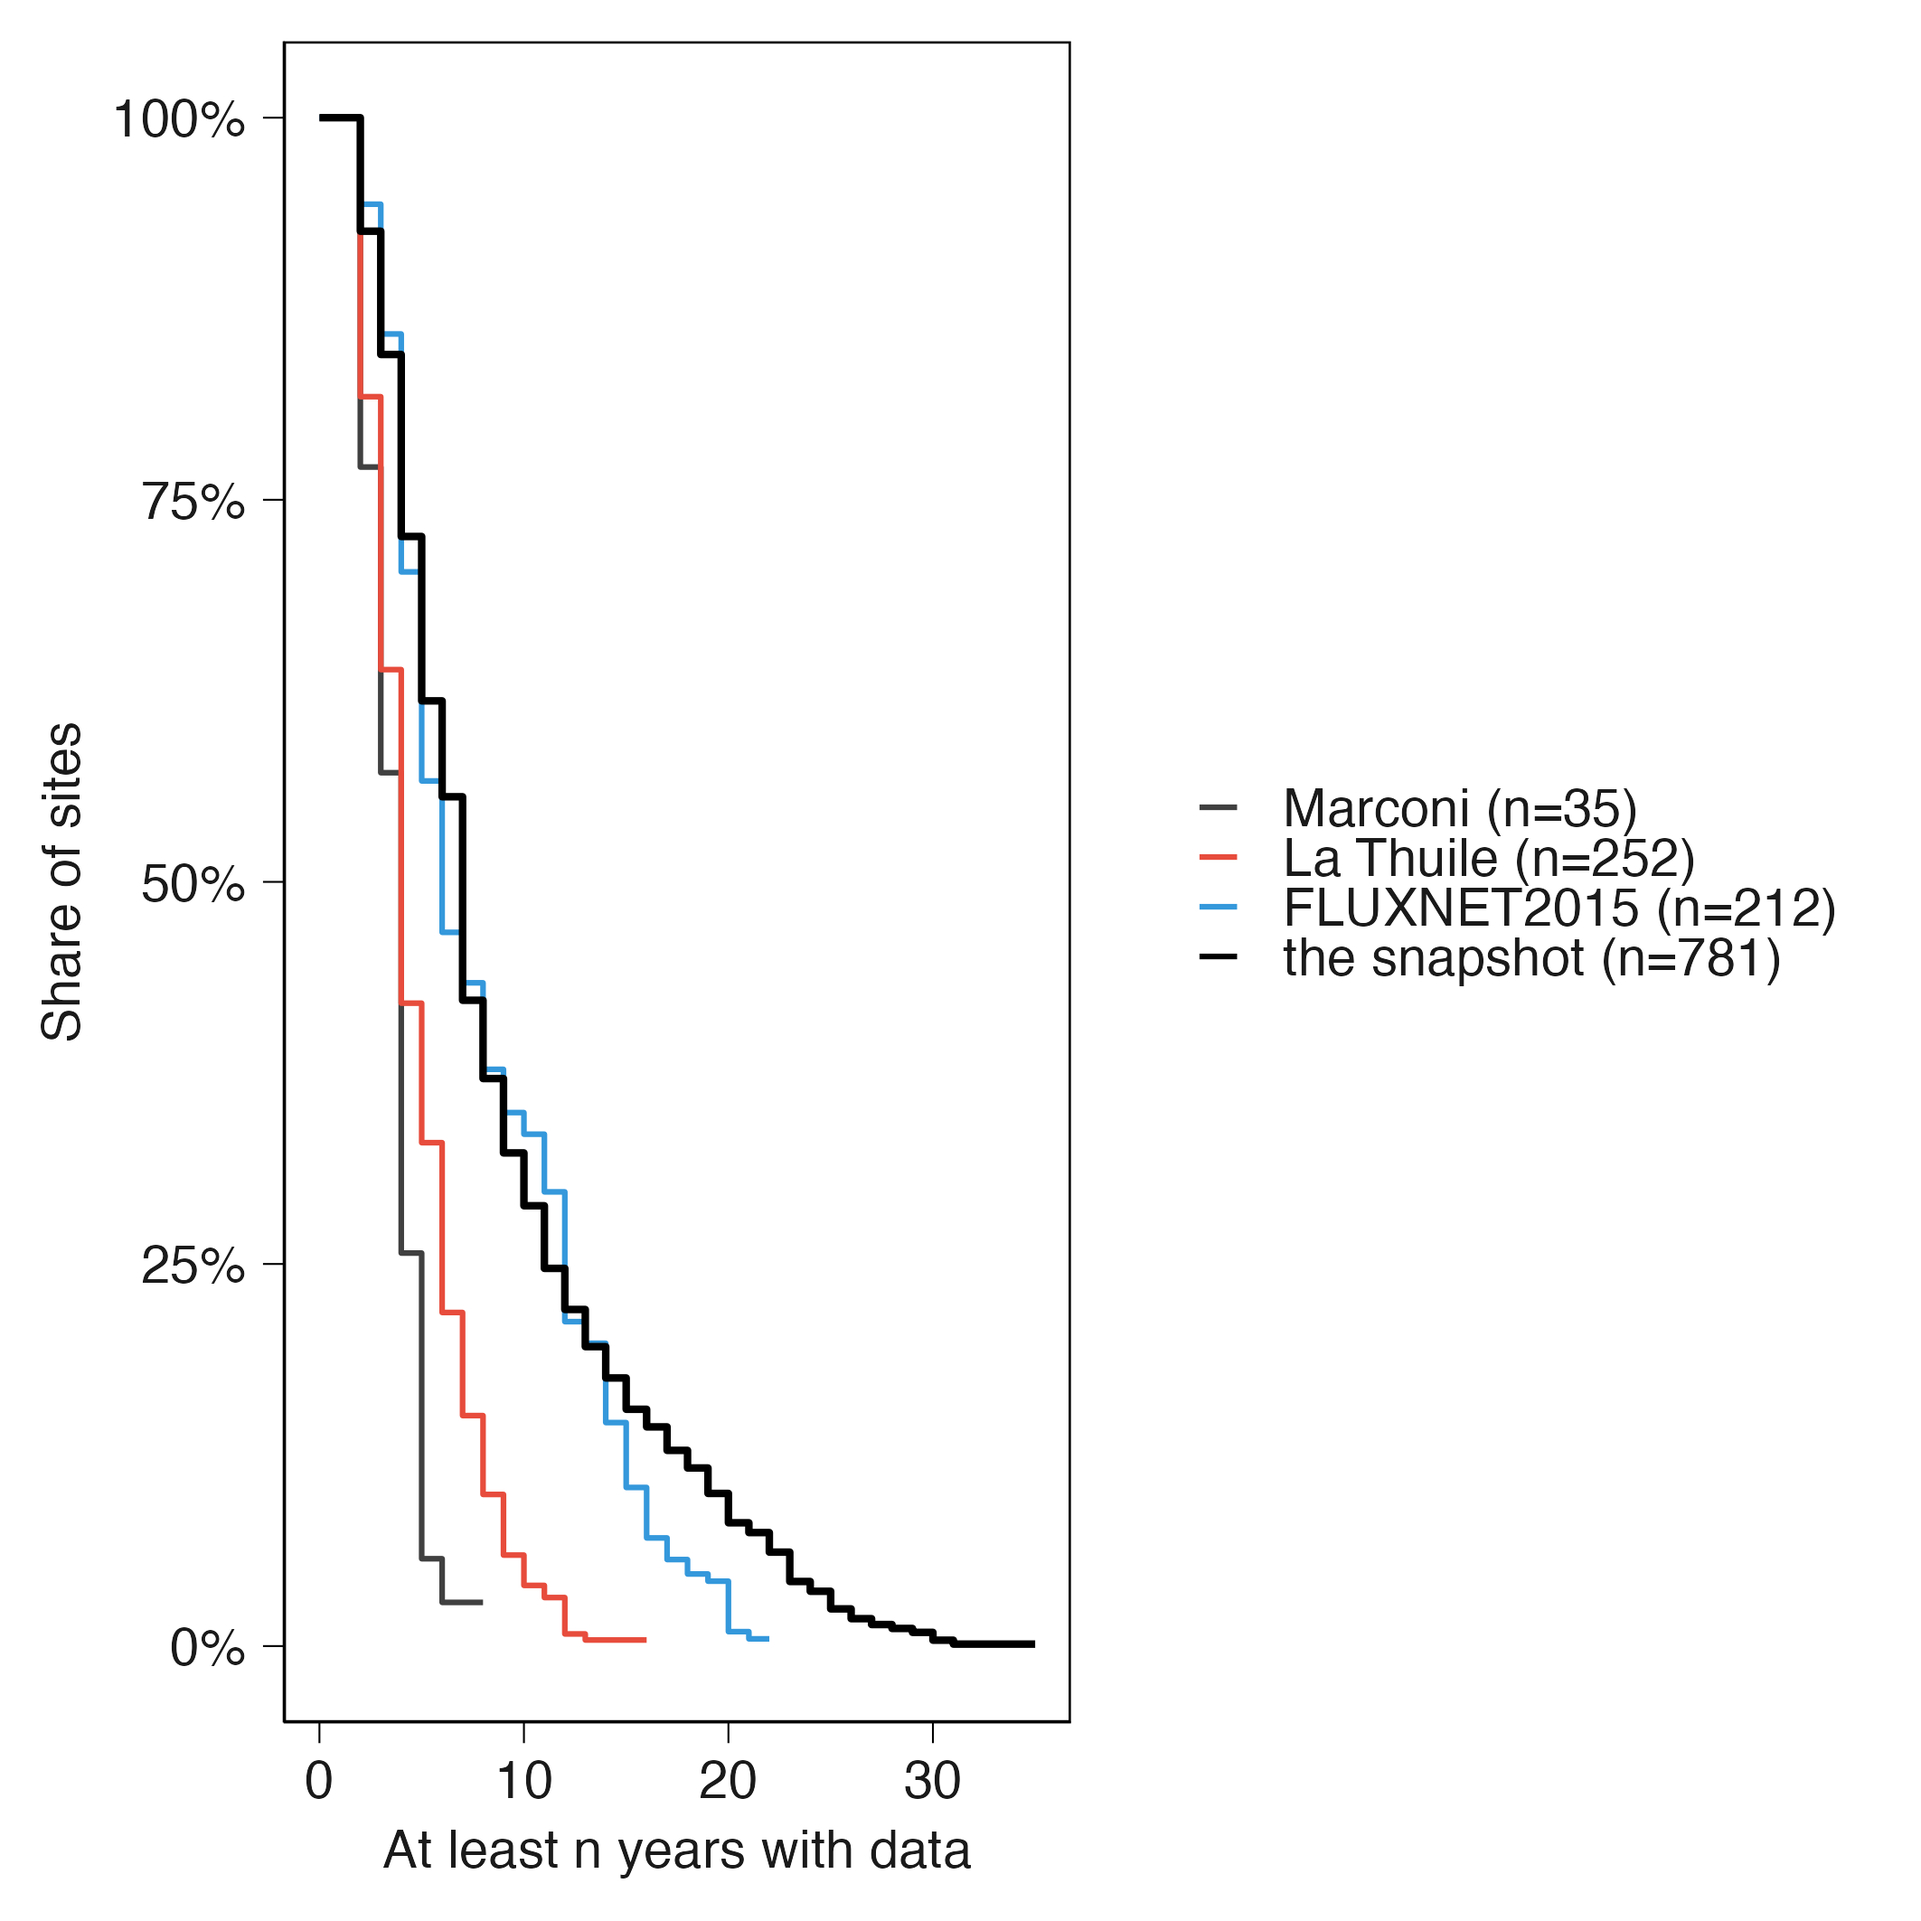
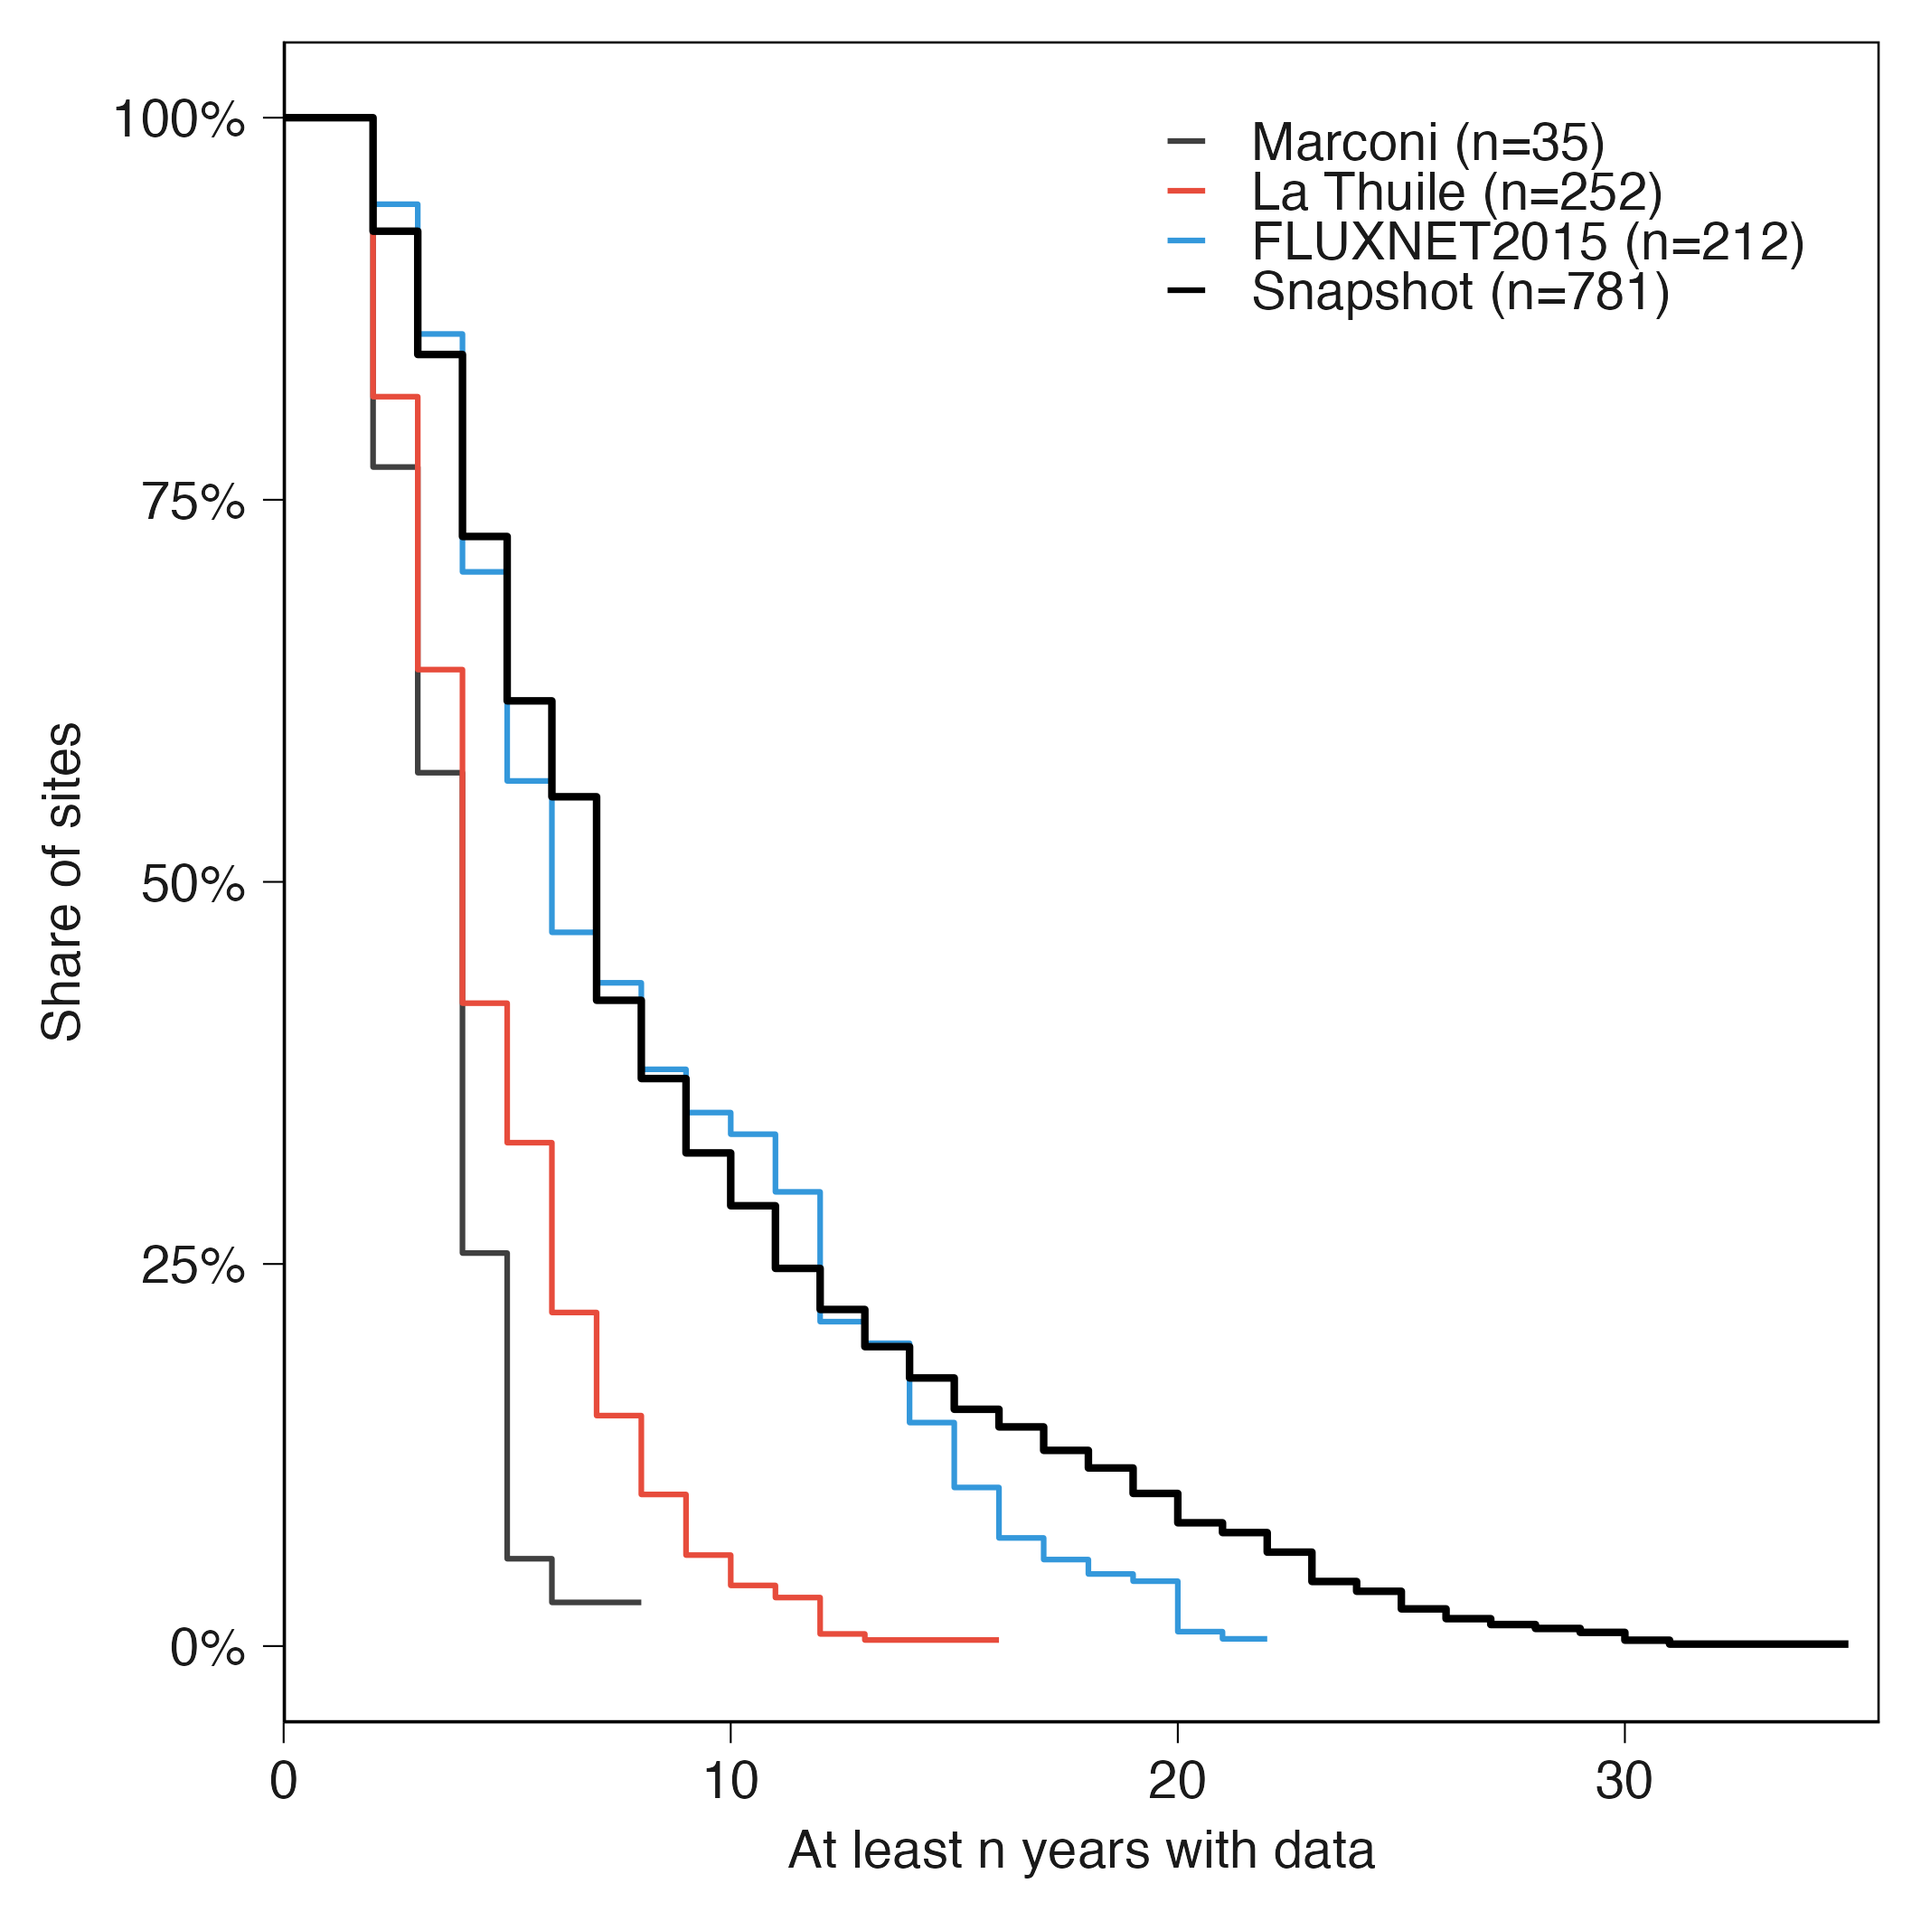
Fix S1/S5/S6 supplementary figure layout and wording
S1 record_length_collections: move legend inside the panel's empty
upper-right corner so the panel uses the figure's full width; relabel the
snapshot key "Snapshot (n=781)" instead of "the snapshot (n=781)".

S5 quality_flags: fix panel a's variable order to NEE_VUT, NEE_CUT, LE, H
(matching panel b, which was already ordered); legend text now states the
QC fraction's direction and names the dashed line "the 0.5 rule".

S6 availability_annual_nee: rename the "no reported value" category to
"no annual NEE in the product"; size legend keys to the text height; add a
legend note defining the site-level "both usable" rule and explaining why
"below quality rule" has 0 sites (confirmed live against
table_stage4_site_level_availability.csv). Wrapped legend key labels onto
two lines to fix an edge-clipping check_figure_format.R regression caused
by the longer category label.

Same names, gates (96/965/1,532/6,200; 23/31 ICOS; 6,336/781) and
check_figure_format.R checks as commit b778437 (13/13 PASS) -- no
underlying analysis numbers changed.

diff --git a/logs/prompts/2026-10-12_supfig_fixes.md b/logs/prompts/2026-10-12_supfig_fixes.md
@@ -1,0 +1,7 @@
+Small fixes to three supplementary figures from commit b778437. Same names, gates and format checks.
+
+- S1 record_length_collections: move the key inside the plot's empty upper right and let the plot use the full width. Key label "Snapshot (n=781)", not "the snapshot".
+- S5 quality_flags: order variables NEE_VUT, NEE_CUT, LE, H in both panels. Legend text states the QC fraction's direction (1 = all records measured or good-quality gap-filled) and that the dashed line is the 0.5 rule.
+- S6 availability_annual_nee: legend keys about text height; category label "no annual NEE in the product" in place of "no reported value". Legend text defines the site bar: a site is "both usable" if at least one year is usable under VUT and at least one under CUT (not necessarily the same year), and "below quality rule" has 0 sites because no site has values that all fail the rule.
+
+Save this prompt as logs/prompts/2026-10-12_supfig_fixes.md. Log, commit and push per CLAUDE.md.
